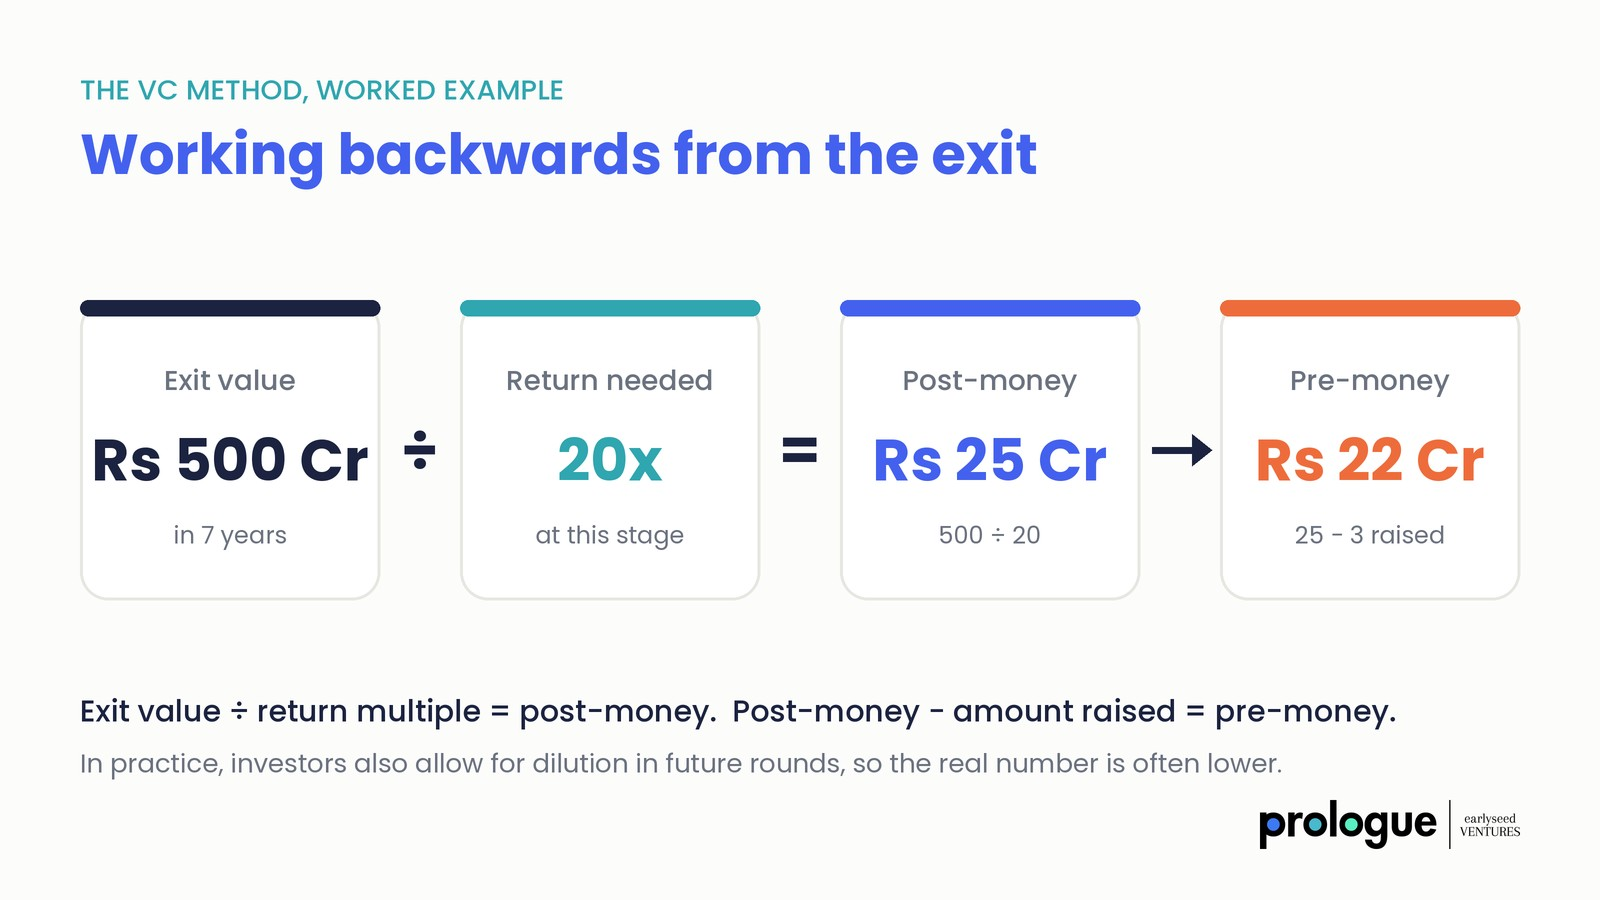
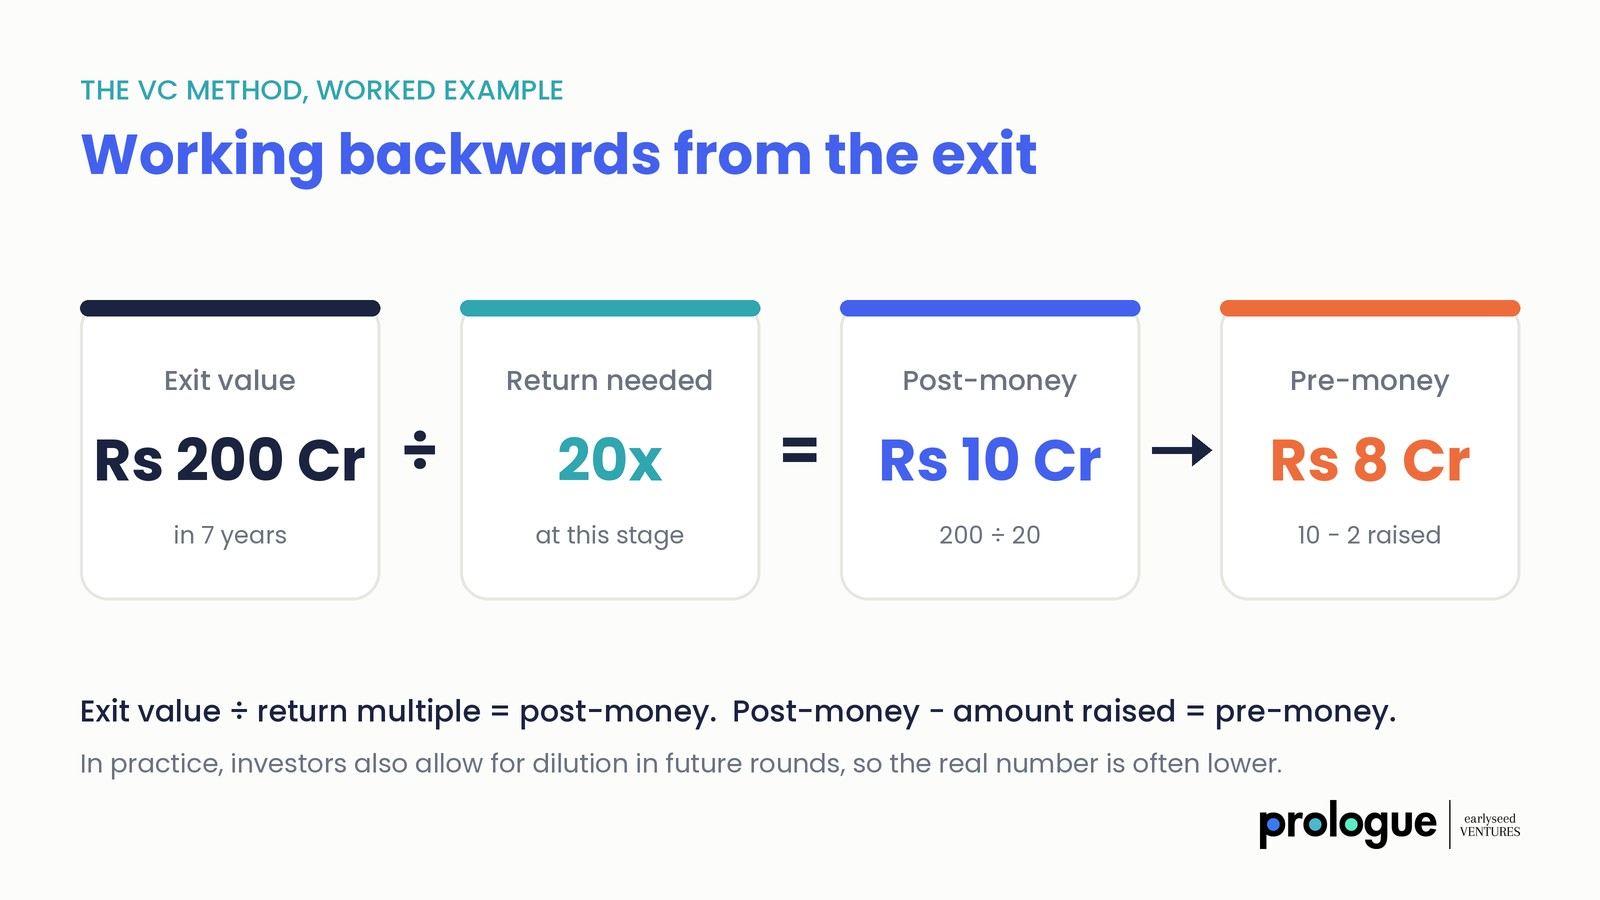
Valuation blog: VC example to Rs 8 crore pre-money, move video to mid-page
Claude-Session: https://claude.ai/code/session_01HsrjQY9YciLdSNmqEtDwuP

diff --git a/blog-how-to-value-pre-revenue-startup-india.html b/blog-how-to-value-pre-revenue-startup-india.html
@@ -87,12 +87,6 @@ height="0" width="0" style="display:none;visibility:hidden"></iframe></noscript>
 
       <p>We have had founders walk in with an idea that was genuinely brilliant. If the revenue had been there, the company could easily have been worth Rs 50 crore. But they were at stage zero, with no product and no customers, and they were asking for Rs 50 crore anyway. They were valuing the company they hoped to build, not the one in front of us. An investor will pay for what you have proven today plus a fair share of what could come. They will not pay for all of the future in advance.</p>
 
-      <figure class="post-figure post-video">
-        <div class="video-frame">
-          <iframe src="https://www.youtube-nocookie.com/embed/WjgD2hHuxcw?rel=0" title="Angel tax is gone. Do startups still need a valuation report? With Monica Gupta" loading="lazy" allow="accelerometer; autoplay; clipboard-write; encrypted-media; gyroscope; picture-in-picture; web-share" referrerpolicy="strict-origin-when-cross-origin" allowfullscreen></iframe>
-        </div>
-        <figcaption>Short on time? In one minute: angel tax is gone, but your valuation report isn't. The full guide is right below.</figcaption>
-      </figure>
 
       <h2>The honest answer: it is a negotiation, not a formula</h2>
 
@@ -120,10 +114,10 @@ height="0" width="0" style="display:none;visibility:hidden"></iframe></noscript>
 
       <p>This is the one most funds use, even if they do not call it that. The investor asks what your company could be worth when they exit, and what return they need to justify the risk. Then they work backwards.</p>
 
-      <p>A simple example. Say an investor believes your company could be worth Rs 500 crore in seven years, and at your stage they need a 20x return. Your value after their investment (post-money) should be about Rs 25 crore. If you are raising Rs 3 crore, your value before the investment (pre-money) is about Rs 22 crore. In practice, investors also allow for their stake shrinking in future rounds, so the real number is often lower.</p>
+      <p>A simple example. Say an investor believes your company could be worth Rs 200 crore in seven years, and at your stage they need a 20x return. Your value after their investment (post-money) should be about Rs 10 crore. If you are raising Rs 2 crore, your value before the investment (pre-money) is about Rs 8 crore. In practice, investors also allow for their stake shrinking in future rounds, so the real number is often lower.</p>
 
       <figure class="post-figure">
-        <img src="Assets/blog/valuation-vc-method.jpg" alt="The VC method worked example: Rs 500 crore exit value divided by a 20x return gives Rs 25 crore post-money, minus Rs 3 crore raised gives Rs 22 crore pre-money" width="1600" height="900" loading="lazy">
+        <img src="Assets/blog/valuation-vc-method.jpg" alt="The VC method worked example: Rs 200 crore exit value divided by a 20x return gives Rs 10 crore post-money, minus Rs 2 crore raised gives Rs 8 crore pre-money" width="1600" height="900" loading="lazy">
         <figcaption>The VC method in one line: exit value ÷ return multiple = post-money. Subtract the raise to get pre-money.</figcaption>
       </figure>
 
@@ -150,6 +144,13 @@ height="0" width="0" style="display:none;visibility:hidden"></iframe></noscript>
       <p>The fourth is the quality of your documents. When your deck, financial model and data room are clear and consistent, investors trust your numbers faster. When the market size on slide 4 does not match the model, they start discounting everything else too.</p>
 
       <p>One of the deep tech companies we work with is a good example. Their revenue was still modest, the kind of number that would normally pull a valuation down. But their valuation held through the investor conversations, because their data room was complete and their research and development work was documented properly. Investors who understood the sector could open the files, see the depth of the technology and judge for themselves what it was worth. In deep tech especially, the right investor values what you have built in the lab, not just what you have sold. Your job is to make that work easy for them to see.</p>
+
+      <figure class="post-figure post-video">
+        <div class="video-frame">
+          <iframe src="https://www.youtube-nocookie.com/embed/WjgD2hHuxcw?rel=0" title="Angel tax is gone. Do startups still need a valuation report? With Monica Gupta" loading="lazy" allow="accelerometer; autoplay; clipboard-write; encrypted-media; gyroscope; picture-in-picture; web-share" referrerpolicy="strict-origin-when-cross-origin" allowfullscreen></iframe>
+        </div>
+        <figcaption>In one minute: angel tax is gone, but your valuation report isn't. Here is why.</figcaption>
+      </figure>
 
       <h2>Angel tax is gone. Your valuation report is not.</h2>
 
